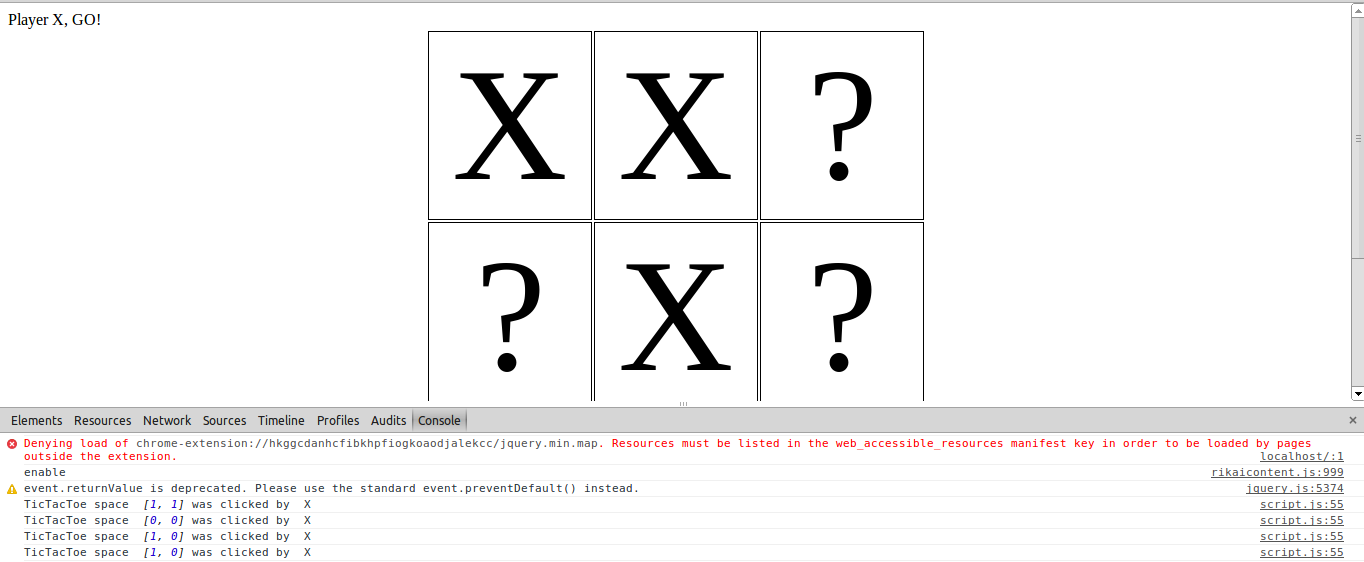
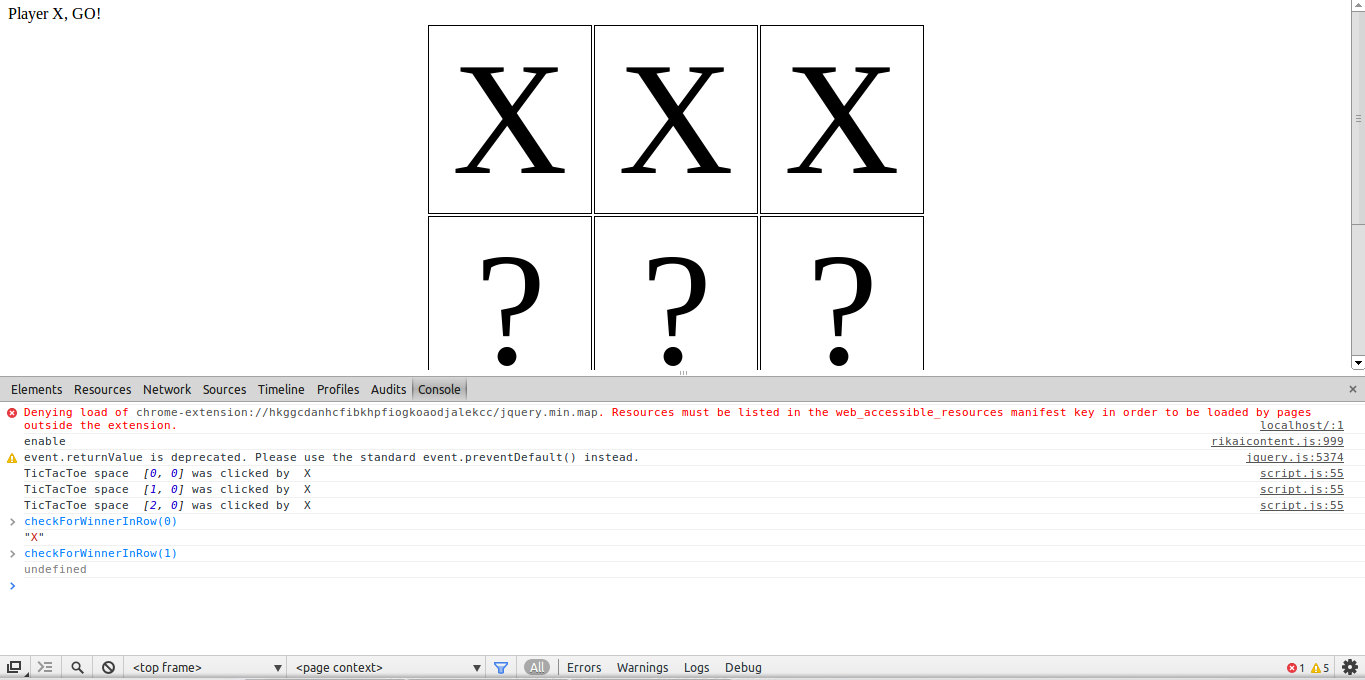
Wrote javascript to check a given row for a winner, or return undefined if none.

diff --git a/script.js b/script.js
@@ -55,8 +55,38 @@ $(document).on('click', 'td.tic-tac-toe-space', function onSpaceClicked(e){
 	console.log('TicTacToe space ',coordinatesOfSpace,'was clicked by ',whoseTurnIsIt);
 		/* Output debugging information to console log. */
 
+
 });
 
+/* Checks a given row for a winner */
+function checkForWinnerInRow(row) {
+	var countX=0; /* How many spaces player X has claimed */
+	var countO=0; /* How many spaces player Y has claimed */
+	for(var col=0; col<3; col++) {
+		var spaceClaimedBy = whichPlayerHoldsSpaceAt(row, col);
+
+		if( spaceClaimedBy === 'X' )
+			countX = countX+1;
+		else if( spaceClaimedBy === 'Y' )
+			countY = countY+1;
+	}
+
+	if(countX === 3)
+		return 'X';
+	if(countO === 3)
+		return 'O';
+	else
+		return undefined;
+}
+
+/* Checks a given column for a winner */
+function checkForWinnerInCol() {
+
+}
+/* Checks for diagonal winner */
+function checkForWinnerDiagonal() {
+
+}
 
 
 /* Tells the browser to run resetGameboard() when the page has loaded. */
